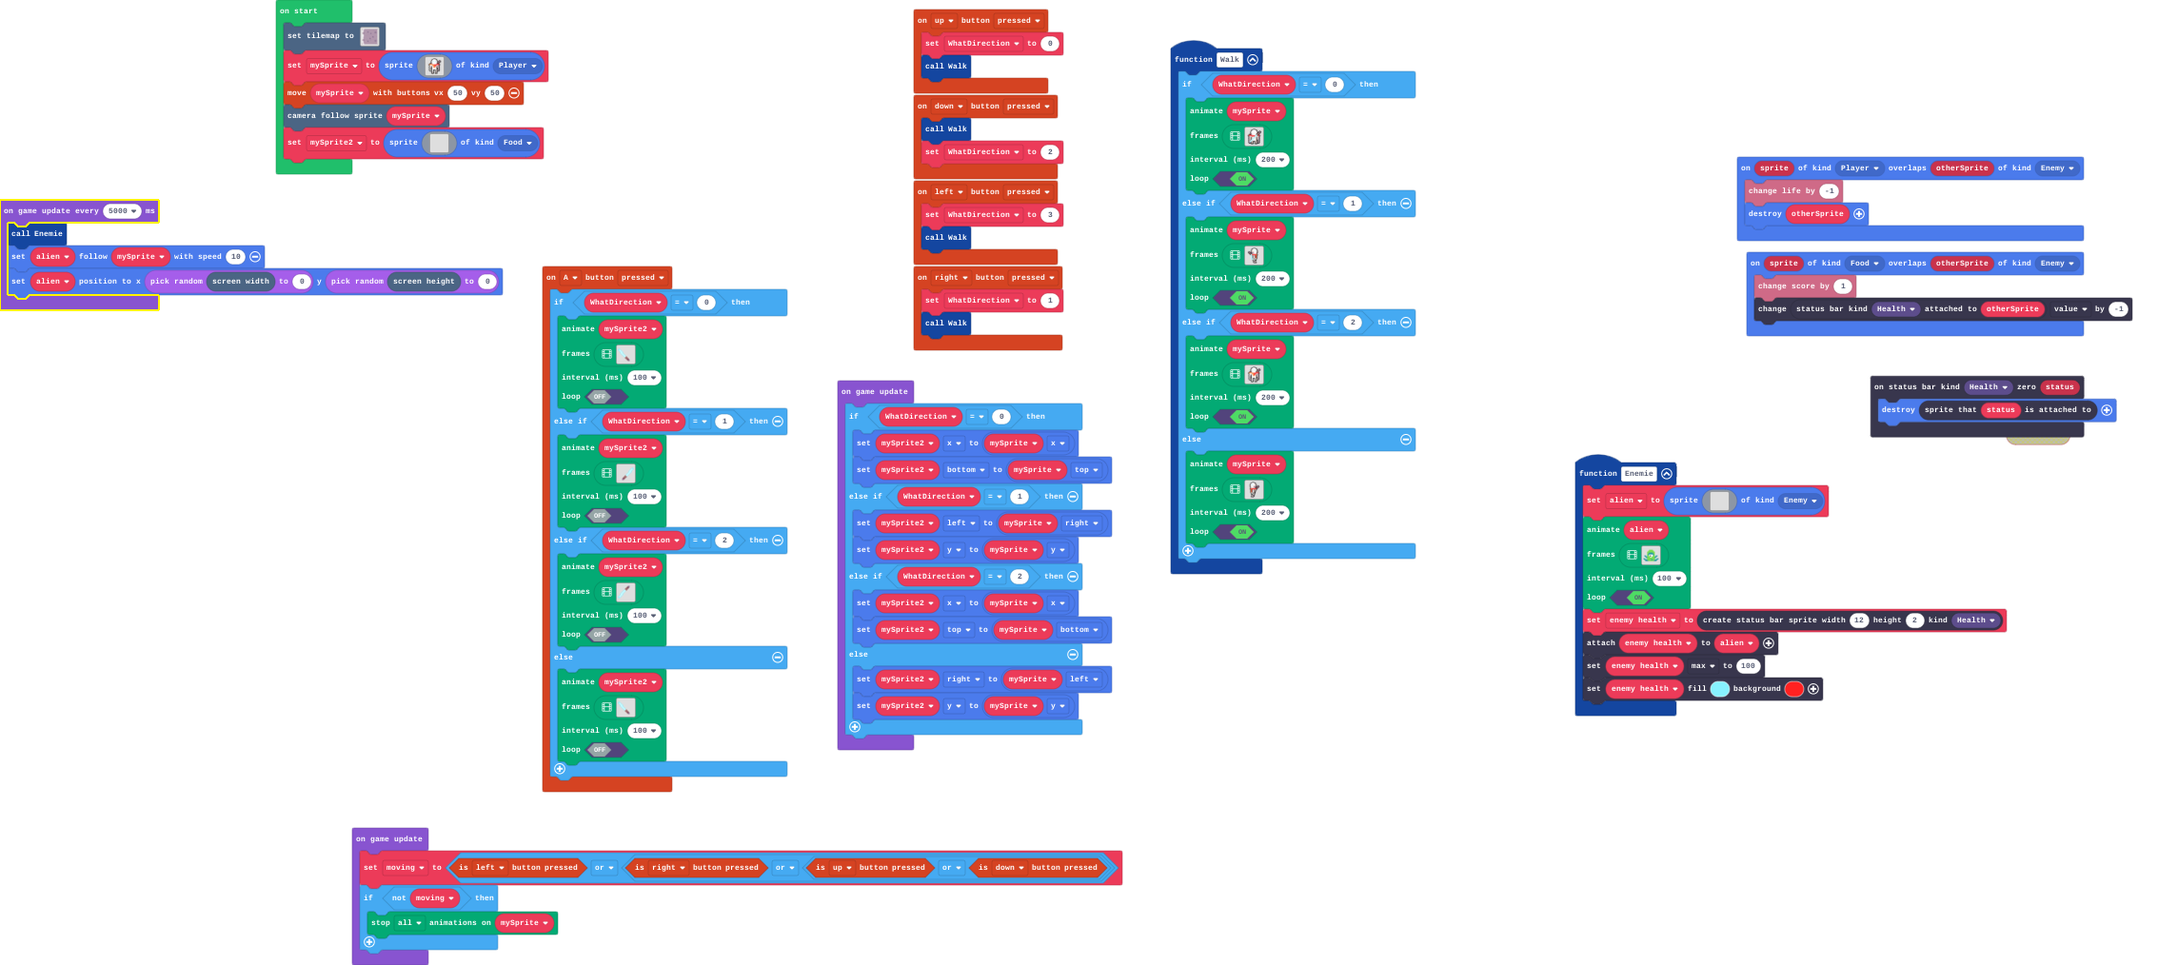
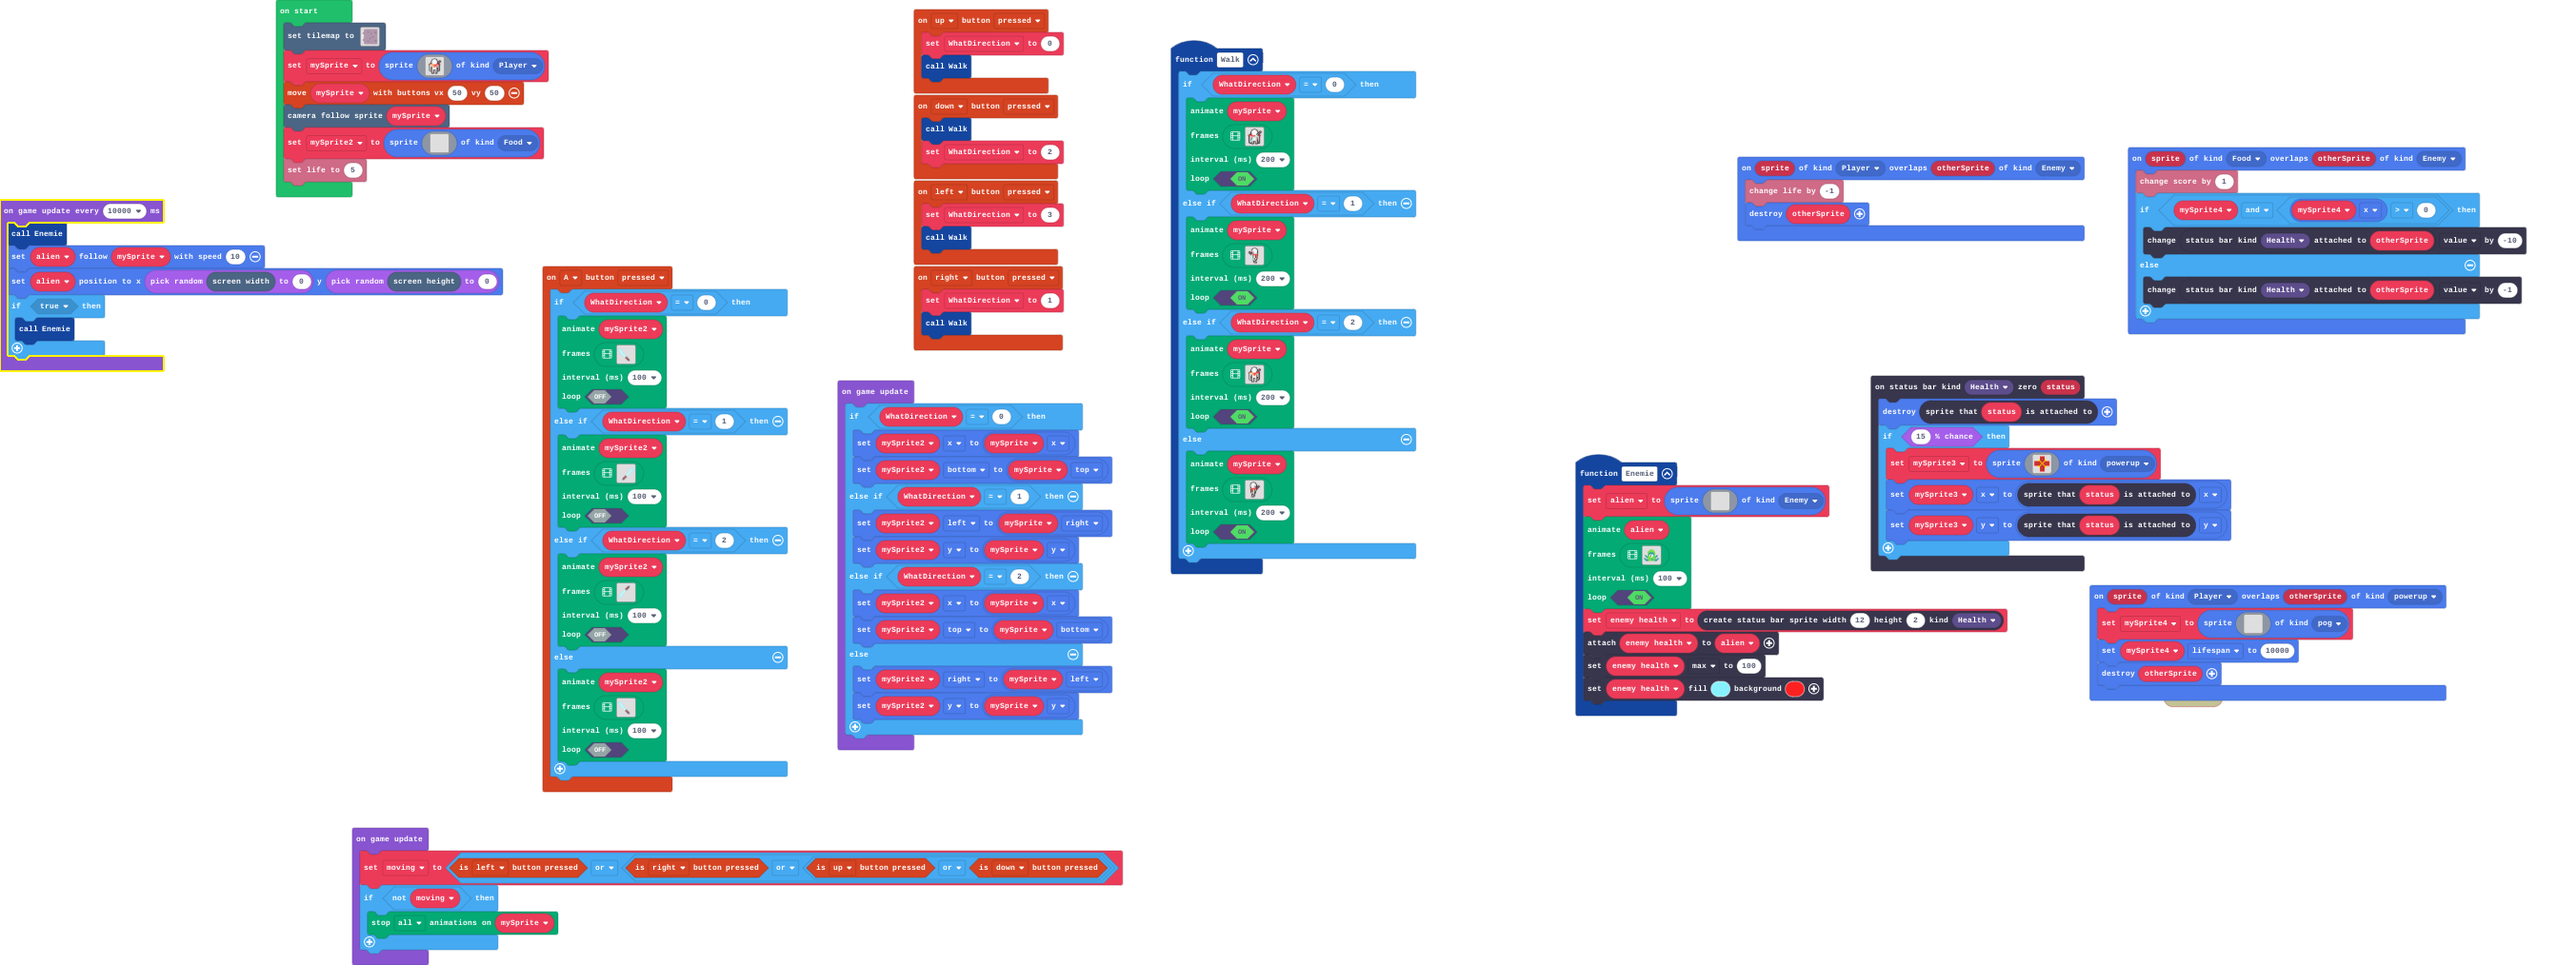
Update main.blocks, main.ts

diff --git a/main.ts b/main.ts
@@ -1,3 +1,7 @@
+namespace SpriteKind {
+    export const powerup = SpriteKind.create()
+    export const pog = SpriteKind.create()
+}
 function Walk () {
     if (WhatDirection == 0) {
         animation.runImageAnimation(
@@ -774,10 +778,36 @@ controller.left.onEvent(ControllerButtonEvent.Pressed, function () {
 })
 sprites.onOverlap(SpriteKind.Food, SpriteKind.Enemy, function (sprite, otherSprite) {
     info.changeScoreBy(1)
-    statusbars.getStatusBarAttachedTo(StatusBarKind.Health, otherSprite).value += -1
+    if (mySprite4 && mySprite4.x > 0) {
+        statusbars.getStatusBarAttachedTo(StatusBarKind.Health, otherSprite).value += -10
+    } else {
+        statusbars.getStatusBarAttachedTo(StatusBarKind.Health, otherSprite).value += -1
+    }
 })
 statusbars.onZero(StatusBarKind.Health, function (status) {
     status.spriteAttachedTo().destroy()
+    if (Math.percentChance(15)) {
+        mySprite3 = sprites.create(img`
+            . . . . . . 2 2 2 2 2 . . . . . 
+            . . . . . . 2 e e e 2 . . . . . 
+            . . . . . . 2 e 2 e 2 . . . . . 
+            . . . . . 5 2 e 2 e 2 5 . . . . 
+            . . . . 5 5 2 e 2 e 2 5 5 . . . 
+            2 2 2 2 2 2 5 e 2 e 5 2 2 2 2 2 
+            2 e e e e e e 5 2 5 e e e e e 2 
+            2 e 2 2 2 2 2 2 5 2 2 2 2 2 e 2 
+            2 e e e e e e 5 2 5 e e e e e 2 
+            2 2 2 2 2 2 5 e 2 e 5 2 2 2 2 2 
+            . . . . 5 5 2 e 2 e 2 5 5 . . . 
+            . . . . . 5 2 e 2 e 2 5 . . . . 
+            . . . . . . 2 e 2 e 2 . . . . . 
+            . . . . . . 2 e 2 e 2 . . . . . 
+            . . . . . . 2 e e e 2 . . . . . 
+            . . . . . . 2 2 2 2 2 . . . . . 
+            `, SpriteKind.powerup)
+        mySprite3.x = status.spriteAttachedTo().x
+        mySprite3.y = status.spriteAttachedTo().y
+    }
 })
 controller.right.onEvent(ControllerButtonEvent.Pressed, function () {
     WhatDirection = 1
@@ -882,6 +912,28 @@ function Enemie () {
     enemy_health.max = 100
     enemy_health.setColor(9, 2)
 }
+sprites.onOverlap(SpriteKind.Player, SpriteKind.powerup, function (sprite, otherSprite) {
+    mySprite4 = sprites.create(img`
+        . . . . . . . . . . . . . . . . 
+        . . . . . . . . . . . . . . . . 
+        . . . . . . . . . . . . . . . . 
+        . . . . . . . . . . . . . . . . 
+        . . . . . . . . . . . . . . . . 
+        . . . . . . . . . . . . . . . . 
+        . . . . . . . . . . . . . . . . 
+        . . . . . . . . . . . . . . . . 
+        . . . . . . . . . . . . . . . . 
+        . . . . . . . . . . . . . . . . 
+        . . . . . . . . . . . . . . . . 
+        . . . . . . . . . . . . . . . . 
+        . . . . . . . . . . . . . . . . 
+        . . . . . . . . . . . . . . . . 
+        . . . . . . . . . . . . . . . . 
+        . . . . . . . . . . . . . . . . 
+        `, SpriteKind.pog)
+    mySprite4.lifespan = 10000
+    otherSprite.destroy()
+})
 sprites.onOverlap(SpriteKind.Player, SpriteKind.Enemy, function (sprite, otherSprite) {
     info.changeLifeBy(-1)
     otherSprite.destroy()
@@ -889,6 +941,8 @@ sprites.onOverlap(SpriteKind.Player, SpriteKind.Enemy, function (sprite, otherSp
 let moving = false
 let enemy_health: StatusBarSprite = null
 let alien: Sprite = null
+let mySprite3: Sprite = null
+let mySprite4: Sprite = null
 let WhatDirection = 0
 let mySprite2: Sprite = null
 let mySprite: Sprite = null
@@ -941,6 +995,7 @@ mySprite2 = sprites.create(img`
     . . . . . . . . . . . . . . . . 
     . . . . . . . . . . . . . . . . 
     `, SpriteKind.Food)
+info.setLife(5)
 game.onUpdate(function () {
     if (WhatDirection == 0) {
         mySprite2.x = mySprite.x
@@ -962,8 +1017,11 @@ game.onUpdate(function () {
         animation.stopAnimation(animation.AnimationTypes.All, mySprite)
     }
 })
-game.onUpdateInterval(5000, function () {
+game.onUpdateInterval(10000, function () {
     Enemie()
     alien.follow(mySprite, 10)
     alien.setPosition(randint(scene.screenWidth(), 0), randint(scene.screenHeight(), 0))
+    if (true) {
+        Enemie()
+    }
 })
